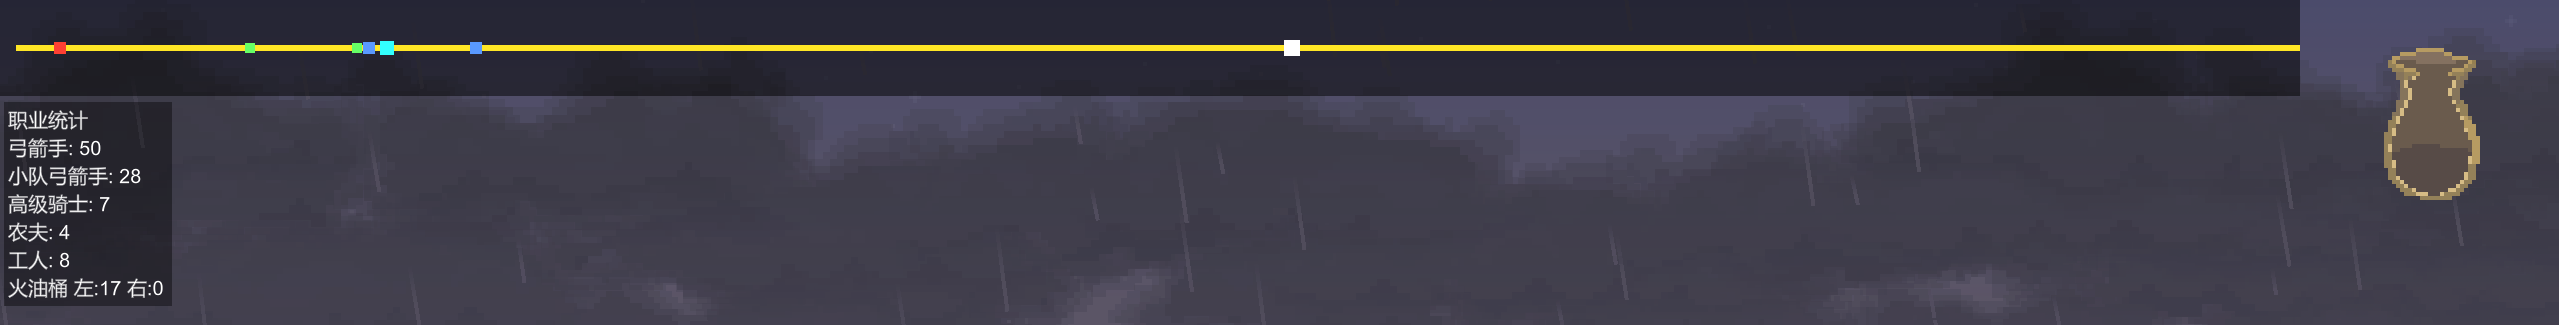
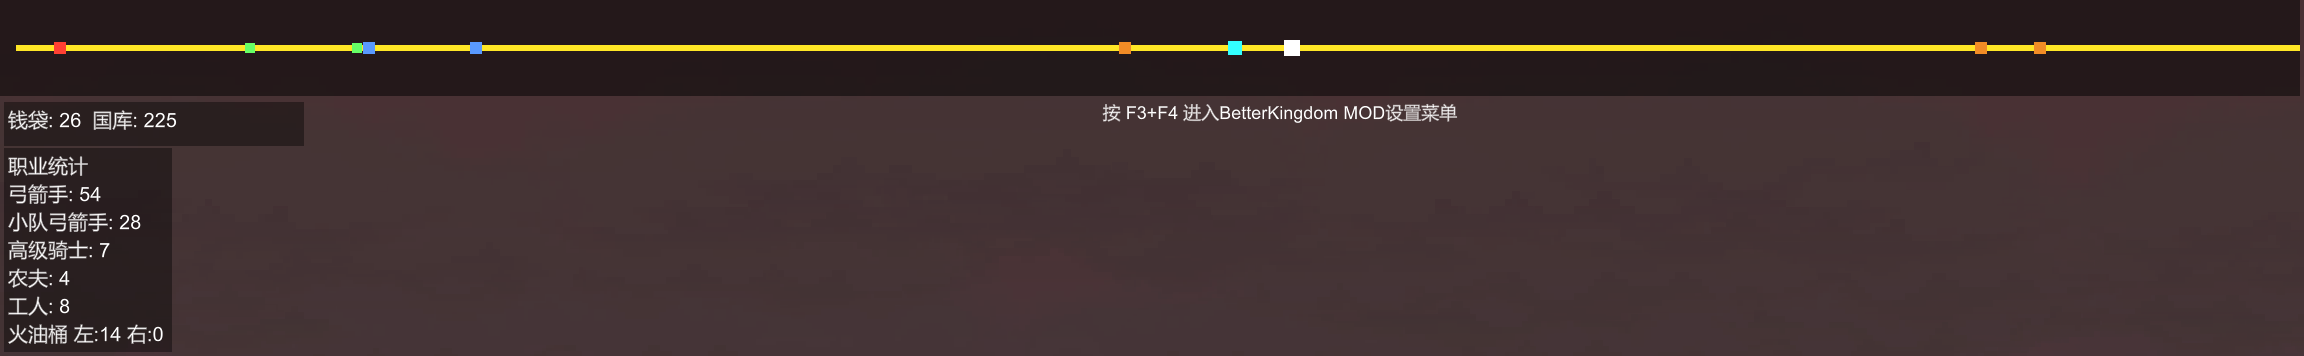
新增更新日志，同步README说明

diff --git a/README.md b/README.md
@@ -30,14 +30,14 @@
 
         - 港口传送门及洞窟(红色方块)
         - 最靠近洞窟的两个城墙及两个箭塔(蓝色和绿色方块)
-
         (为了方便判断当前岛是否适合久居)
         - 玩家(浅蓝色方块)
         - 主城(白色方块)
         - 怪物(紫色细线)
-
         (只显示每一批次中最靠近城墙的那一只)
-    2. 在地图下方左侧显示职业统计与火油桶统计
+    2. 在地图下方左侧显示：
+        - 职业统计与火油桶统计
+        - 当前钱袋中与国库中的金币数量
 
    **将光标放在地图中的点上可以查看该点名称**
 
@@ -46,7 +46,6 @@
     4. 左下角显示：
         - 当前的游戏时间
         - 日出日落时间(固定)
-        - 当前钱袋中与国库中的金币数量
         - 当前季节以及当前处于该季节的第多少天(一个季节16天，蓝月为第16天)
 
     ![图5 - MOD设置界面](images/7setting.png)
